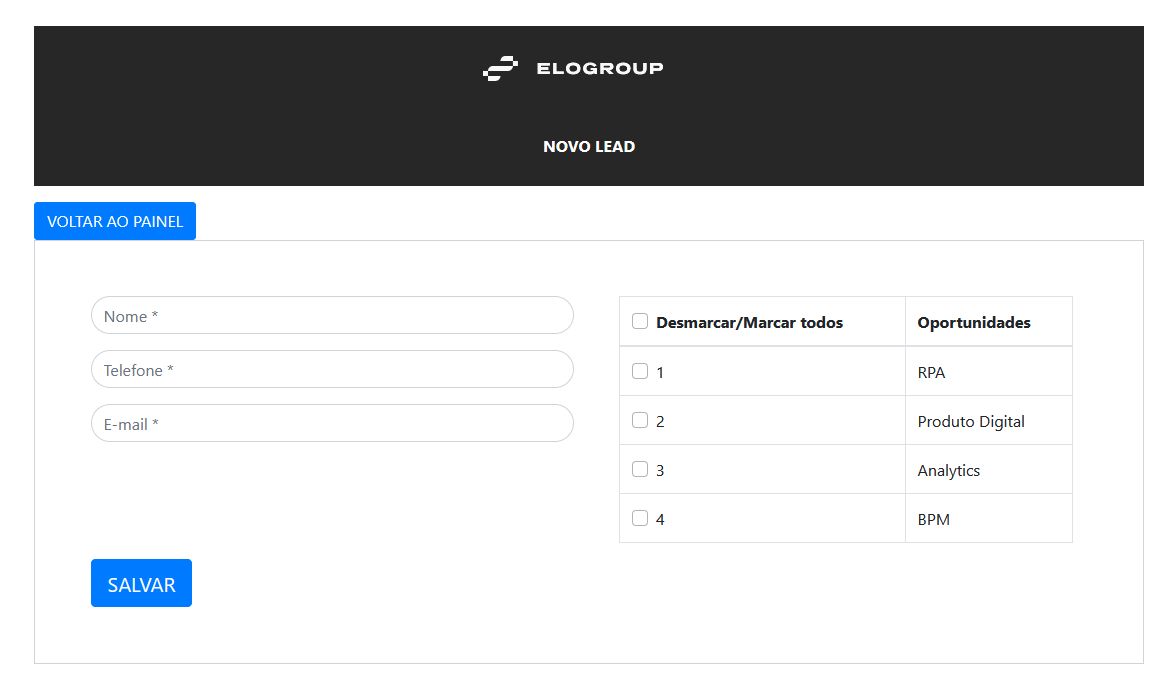
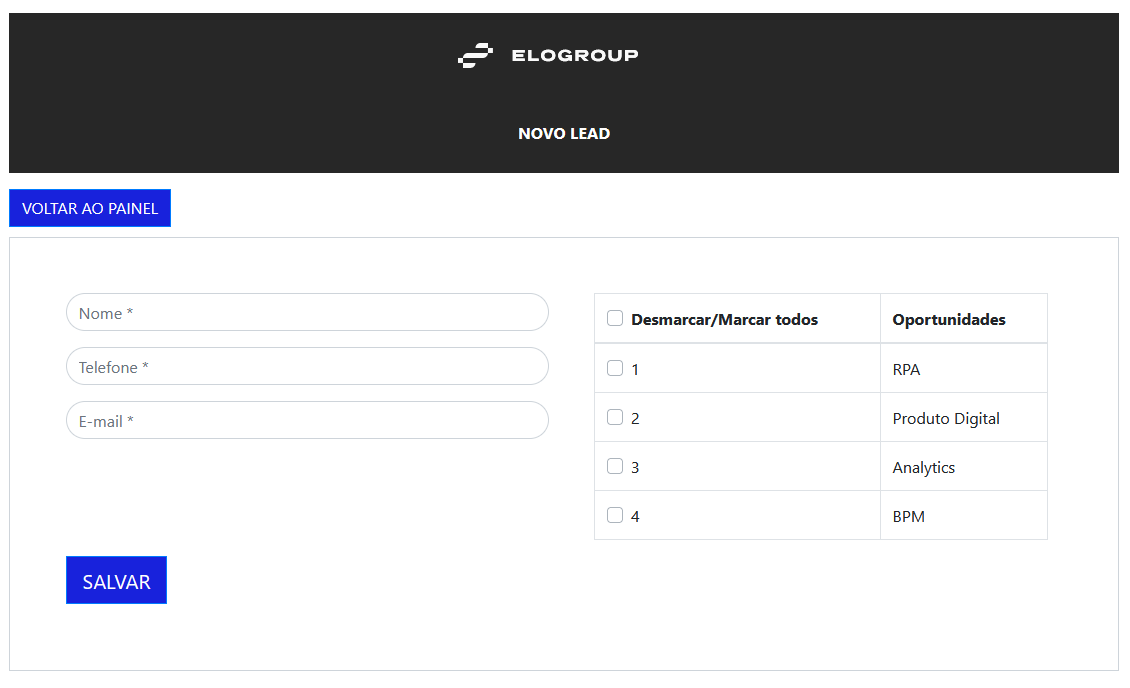
Atualização das imagens de exibição.

diff --git a/src/app/components/novo-lead-component/novo-lead-component.component.css b/src/app/components/novo-lead-component/novo-lead-component.component.css
@@ -26,7 +26,8 @@
 .btn-primary{
     background-color: #1822DC;
     margin-bottom: 10px;
-    border-radius: 0.0rem 
+    border-radius: 0.0rem;
+    
 }
 
 .campo_erros {
